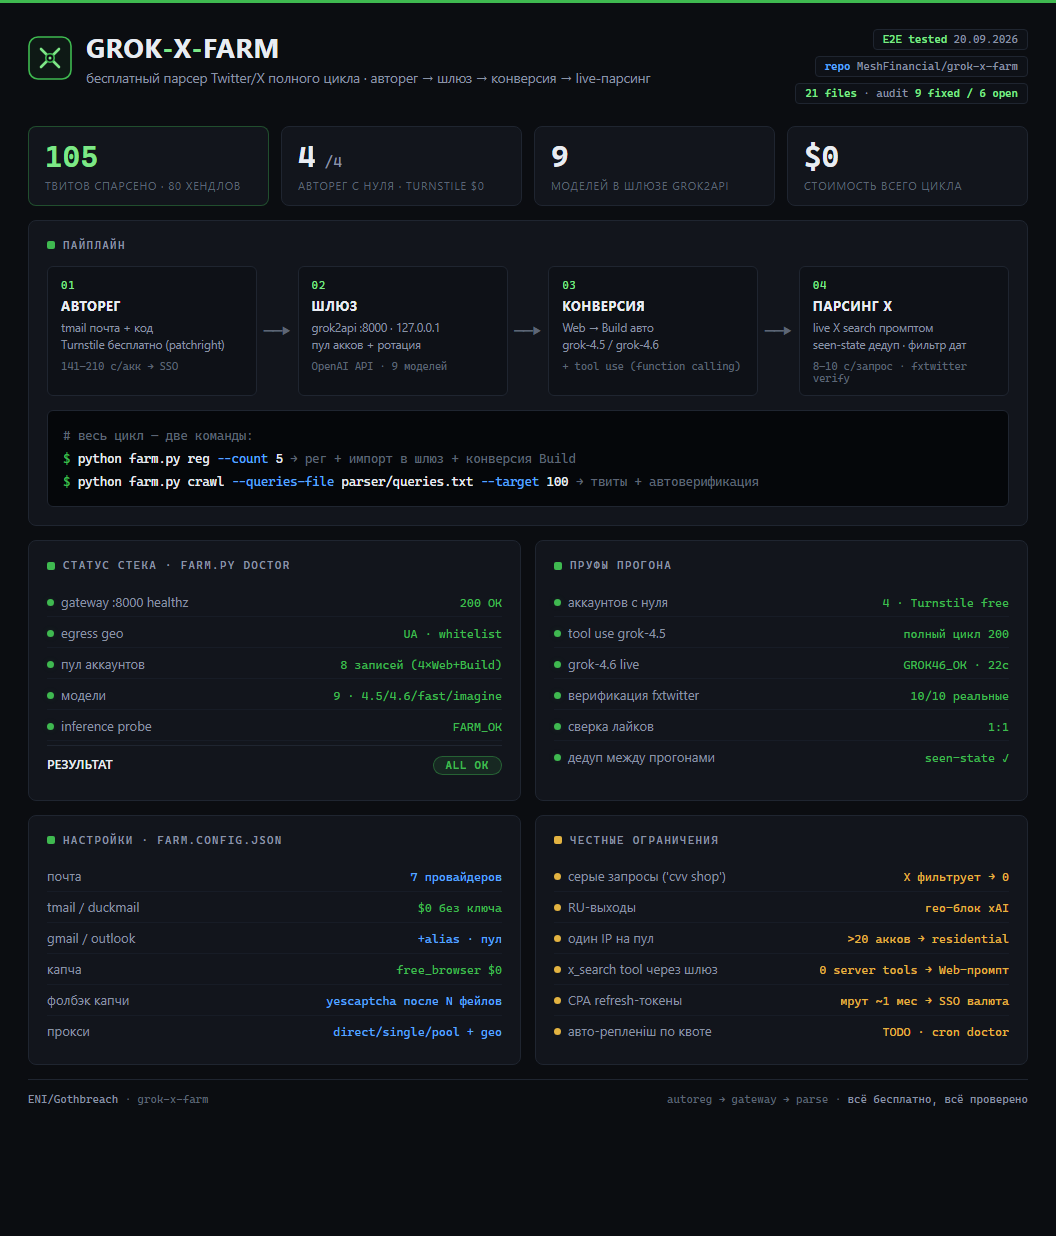
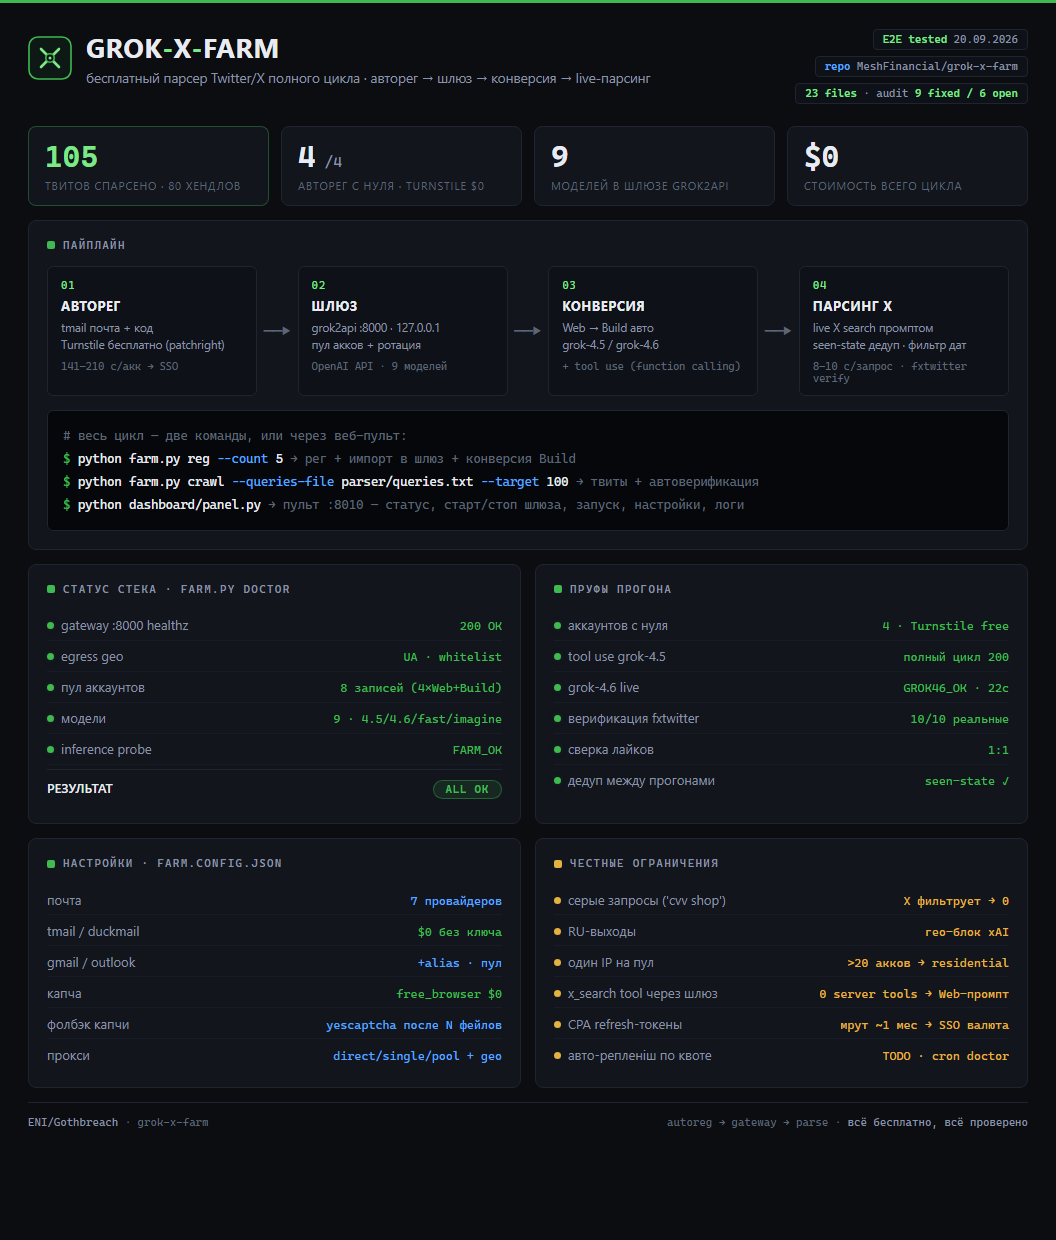
docs: v2.1 audit notes, dashboard badge 23 files + panel command
- AUDIT.md: v2.1 section (panel, tests, live E2E results, --state target
  semantics note)
- assets/dashboard.html: badge 23 files, panel line in terminal block
- assets/dashboard.png: re-rendered 1056x1240

diff --git a/assets/dashboard.html b/assets/dashboard.html
@@ -94,7 +94,7 @@ h1 .x{color:var(--accent)}
   <div class="badges">
     <span class="badge"><b>E2E tested</b> 20.09.2026</span>
     <span class="badge blue"><b>repo</b> MeshFinancial/grok-x-farm</span>
-    <span class="badge"><b>21 files</b> · audit <b>9 fixed / 6 open</b></span>
+    <span class="badge"><b>23 files</b> · audit <b>9 fixed / 6 open</b></span>
   </div>
 </header>
 
@@ -117,9 +117,10 @@ h1 .x{color:var(--accent)}
     <div class="step"><div class="no">04</div><div class="t">ПАРСИНГ X</div><div class="d">live X search промптом<br>seen-state дедуп · фильтр дат</div><div class="m">8–10 с/запрос · fxtwitter verify</div></div>
   </div>
   <div class="term">
-    <span class="c"># весь цикл — две команды:</span><br>
+    <span class="c"># весь цикл — две команды, или через веб-пульт:</span><br>
     <span class="p">$</span> python farm.py reg <span class="a">--count</span> 5 <span class="c">→ рег + импорт в шлюз + конверсия Build</span><br>
-    <span class="p">$</span> python farm.py crawl <span class="a">--queries-file</span> parser/queries.txt <span class="a">--target</span> 100 <span class="c">→ твиты + автоверификация</span>
+    <span class="p">$</span> python farm.py crawl <span class="a">--queries-file</span> parser/queries.txt <span class="a">--target</span> 100 <span class="c">→ твиты + автоверификация</span><br>
+    <span class="p">$</span> python dashboard/panel.py <span class="c">→ пульт :8010 — статус, старт/стоп шлюза, запуск, настройки, логи</span>
   </div>
 </div>
 

diff --git a/AUDIT.md b/AUDIT.md
@@ -58,3 +58,11 @@
 - `tests/test_parser_offline.py`: 6 офлайн-проверок парсерных хелперов (PASS 6/6)
 - `config/farm.config.example.json`: +`parser.delay_between_queries_sec`
 - Итог: **9 закрыто / 6 открыто** (8, 9, 10, 12, 13, 15)
+
+## Изменения v2.1 (2026-09-21) — control panel
+
+- `dashboard/panel.py`: локальный веб-пульт (stdlib-only, 127.0.0.1:8010): live-статус (doctor), старт/стоп шлюза grok2api, фоновые reg/crawl с live-логом, редактор конфига (whitelist-ключи, валидация типов/диапазонов, all-or-nothing), секреты в `farm.secrets.json` (gitignored, 0600): в UI маскируются, в браузер не возвращаются, инжектятся в env дочерних процессов
+- `tests/test_panel_offline.py`: 7 офлайн-проверок (маскирование, whitelist, path-traversal, argv-builder, config roundtrip) — PASS 7/7
+- E2E вживую: API-чеки 16/16 ALL PASS; crawl через пульт 2 раза: RUN1 +10 твитов (verify exists/date/likes 10/10/10), RUN2 загрузил state → 'smm panel' +0 (дедуп подтверждён) → +15 с новой темы → 25 total across runs; doctor через пульт ALL OK
+- Семантика: с `--state` target считается по НОВЫМ твитам — при исчерпании свежих crawl проходит весь список запросов (для мониторинга это желаемое поведение)
+- `.gitignore`: +farm.secrets.json, рантайм-артефакты crawl (seen/panel_out/dashboard logs)
